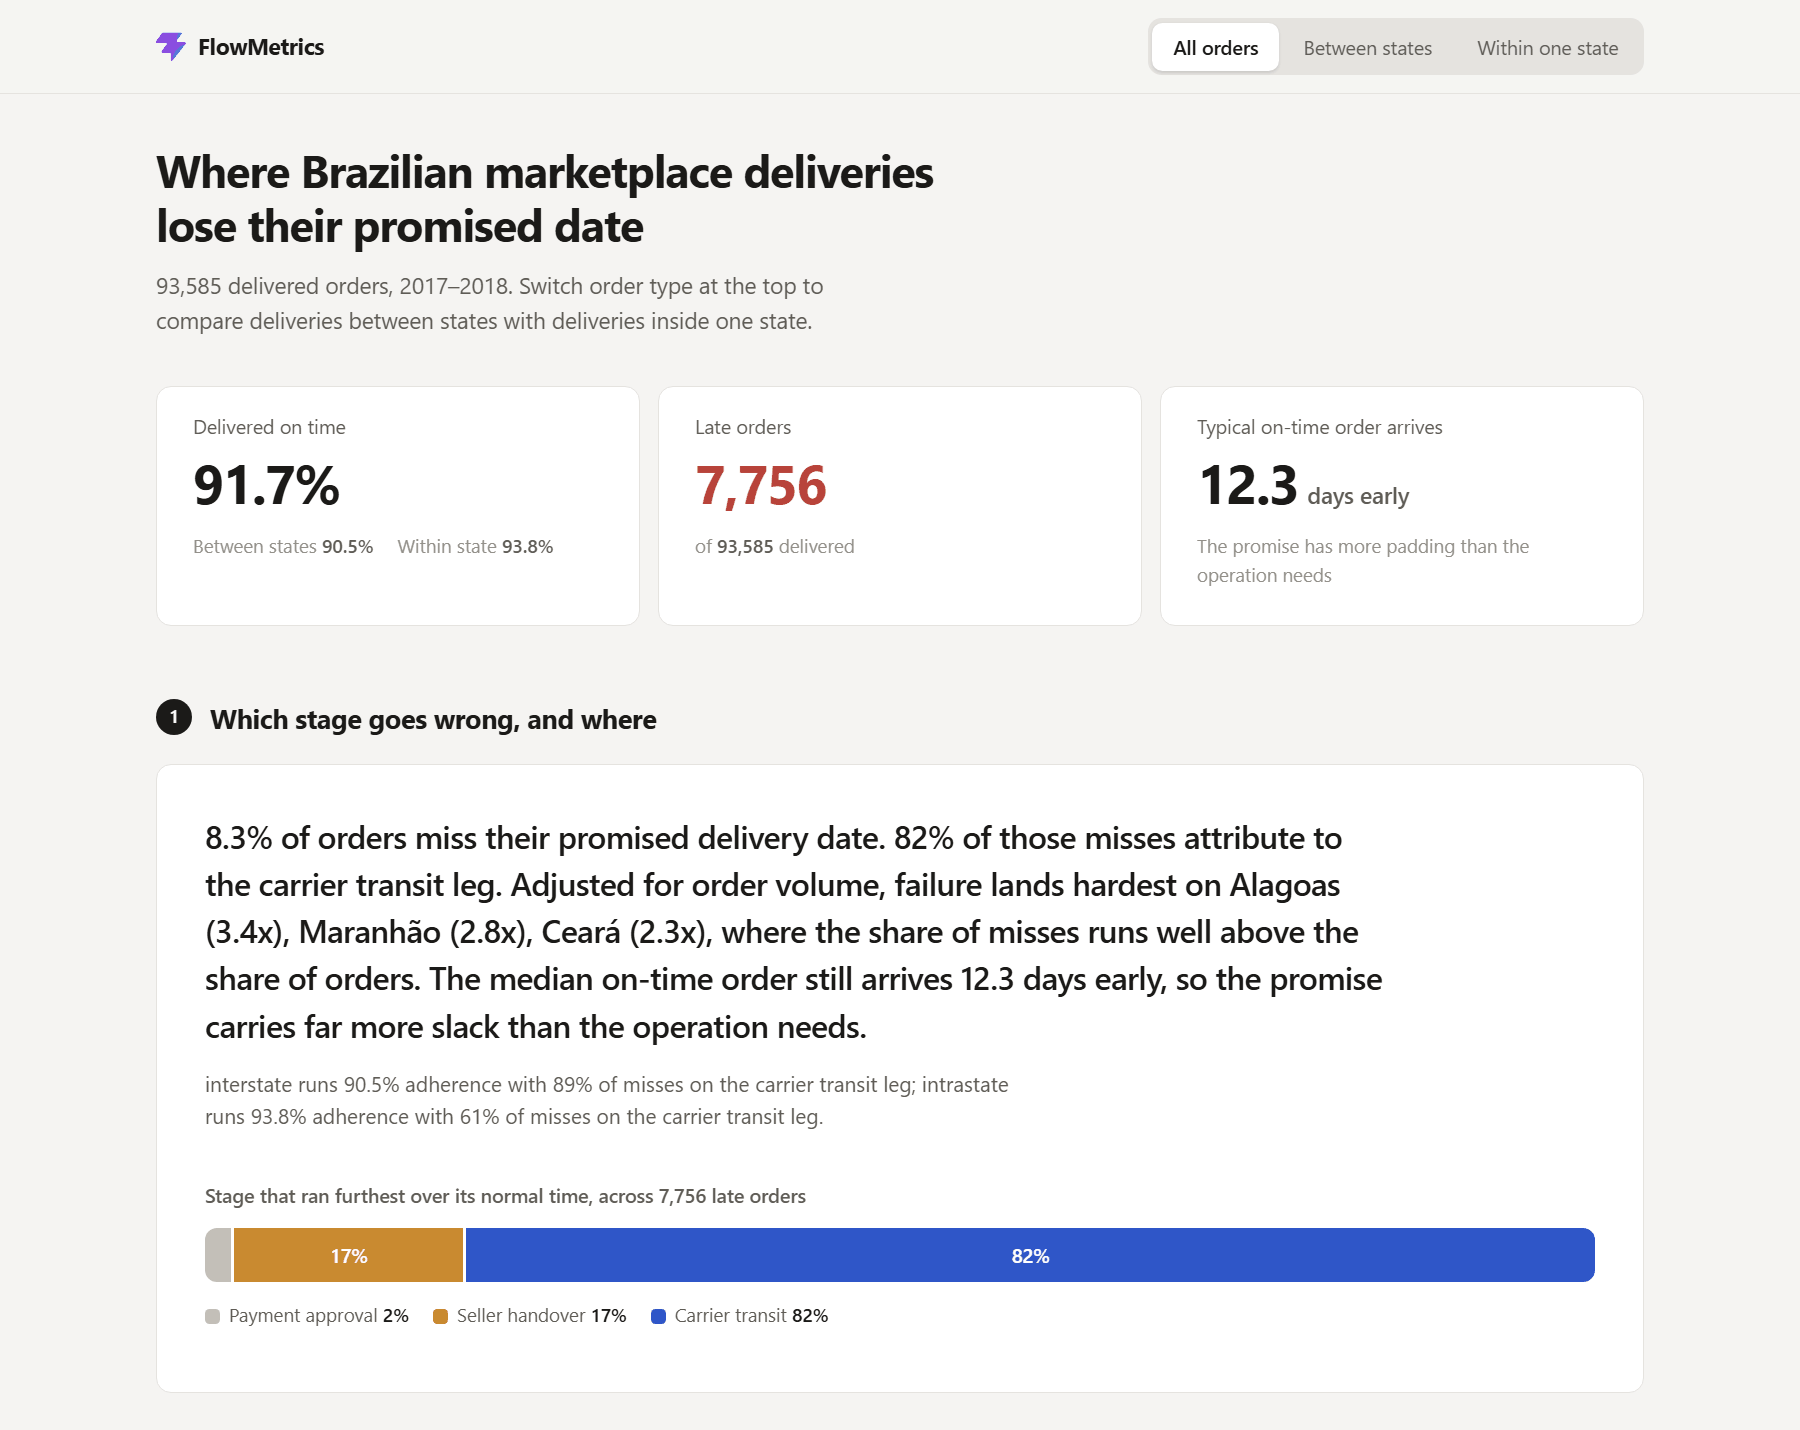
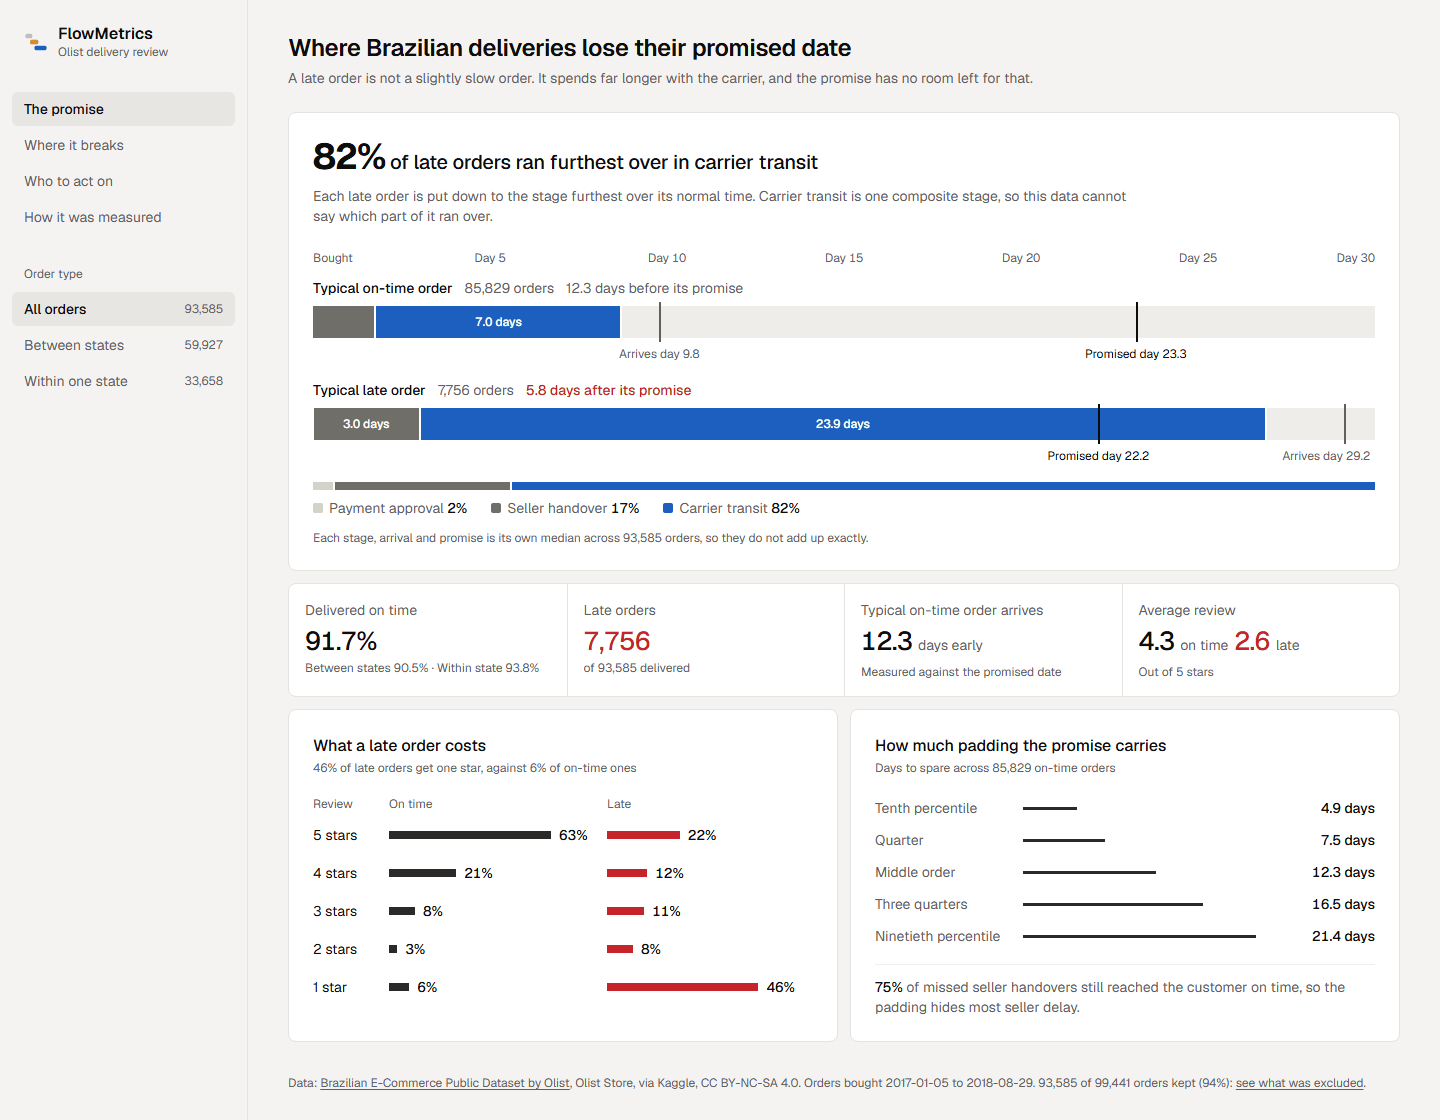
update the readme for the new dashboard and correct how state figures are described
Alagoas at 3.4 times its share counts only late orders where carrier transit ran
over, not all late orders, which would give 2.9. The figure was right but the
wording was not, so the readme now says what is really measured.

The screenshots show the new views, and the session log records the rebuild.

diff --git a/docs/SESSION.md b/docs/SESSION.md
@@ -278,3 +278,46 @@ dashboard changes, recapture: `chrome --headless=new --window-size=1200,4200
 --force-device-scale-factor=1.5 --screenshot=full.png http://localhost:8000/`.
 The overview was then cut to end after the stage bar, and all three were reduced
 to 256 colours, taking them from 357 KB to 142 KB with no visible change.
+
+### Dashboard first screen, colours and loading states redone after a design review
+
+The first screen now answers the page's question: the largest figure is the
+carrier share of late orders, above the stage bar, built from the computed
+dominant leg so it follows the order type toggle. The generated headline stays in
+the API, the README and section 1, but at body size, which departs from the plan's
+"print it prominently". Each hue now means one thing: blue is only the carrier leg,
+amber only the seller leg, and daily volume is neutral. The Vite logo, `hero.png`
+and `icons.svg` are gone; the new mark is the three legs in sequence. Faint text now
+reaches 4.5:1, so the data credit is readable. Loading placeholders are flat, spaced
+and sized to the desktop blocks; on a phone they are still shorter than the real
+blocks. Also removed: the top bar's blur and toggle shadows. The title dropped
+"marketplace" to fit two lines on a phone. README screenshots were recaptured.
+
+### End of the daily on-time line removed, and the rest of the review finished
+
+The daily rate fell to 0% at the end of the series, and that was not real. Purchases
+stop on 2018-08-29, so later deliveries are only the slow orders left over. The rate
+is now blank after the last purchase and on days under `MIN_ORDERS_PER_DAY`, the
+chart says how many days, and a test holds it. Every other figure is unchanged.
+Volume and rate now sit on two charts sharing a time axis, not two scales on one
+plot. The footer's dates were purchase dates labelled as delivered, now corrected.
+The toggle keeps old figures dimmed until new ones land, instead of collapsing the
+page. The page widened to 1200px with routes and sellers side by side, and the
+segment note now uses the toggle's words.
+
+### Dashboard rebuilt as four views around the promise
+
+The one long page read as scattered blocks. It is now a sidebar and four views, one
+question each: the promise, where it breaks, who to act on, how it was measured. The
+order type switch sits in the sidebar and drives all four. Two pieces are specific
+to this data: the promise line draws the typical on-time and late order to scale
+against their promised dates, and a tile map of the 27 states opens a file for each.
+`promise_journey()` and `state_summary()` were added to `analysis/`, with
+`/api/journey`, `/api/states` and a `customer_state` filter on `/api/lanes`.
+The look follows one rule: the chrome is neutral, blue marks the leading stage and
+the map, red marks late. Geist is bundled through `@fontsource-variable/geist`, so
+nothing loads from a third party at runtime.
+Writing the state test showed that the state and region multiples (Alagoas 3.4×) are
+measured on the dominant leg only, not on all late orders (Alagoas 2.9×). The
+figures stand and the map uses them, but the old dashboard label and the README
+wording were imprecise, so both now state the real definition.

diff --git a/README.md b/README.md
@@ -44,24 +44,27 @@ from Kaggle into `data/raw/` and run `python -m data.clean`.
 
 ## Dashboard
 
-The finding first: the headline numbers, the generated summary, and which stage
-of the journey fails.
+Four views, one question each, and the order type switch applies to all of them.
+The first answers which stage fails, with the typical on-time and late order drawn
+to scale against their promised dates.
 
 <p align="center">
-  <img src="docs/images/overview.png" alt="Headline numbers, the generated finding, and which stage fails" width="600">
+  <img src="docs/images/overview.png" alt="The share of late orders by stage, and the typical on-time and late order against the promise" width="600">
 </p>
 
-Then who to act on: the worst routes, and how few sellers carry half the late
-orders.
+Then where it breaks: a map of the 27 states, where choosing one opens its figures
+and its worst routes.
+
+<p align="center">
+  <img src="docs/images/where-it-breaks.png" alt="A tile map of Brazilian states shaded by late orders against volume, beside the file for Alagoas" width="600">
+</p>
+
+Then who to act on: the worst routes, how few sellers carry half the late orders,
+and the sellers with the lowest on-time rate. A fourth view shows every exclusion,
+the limits of the data, and the daily series and orders behind the figures.
 
 <p align="center">
   <img src="docs/images/who-to-act-on.png" alt="The worst routes by on-time rate, and the seller concentration" width="600">
-</p>
-
-And what lateness costs in review scores.
-
-<p align="center">
-  <img src="docs/images/what-it-costs.png" alt="Review scores for on-time and late orders" width="600">
 </p>
 
 ---
@@ -106,8 +109,8 @@ each order type separately.
 
 São Paulo holds 42% of all orders, so "most late orders are in São Paulo" would
 be true however well it performed. The useful comparison is each area's share of
-late orders against its share of all orders. **The Northeast takes 2.05× the late
-orders its volume would predict.** The North takes 1.39×, and the Southeast 0.85×.
+the late orders that ran over in carrier transit against its share of all orders.
+**The Northeast takes 2.05× what its volume would predict.** The North takes 1.39×, and the Southeast 0.85×.
 The worst states are Alagoas (3.4×), Maranhão (2.8×) and Ceará (2.3×).
 
 ### 5. A late order costs 1.75 review points
